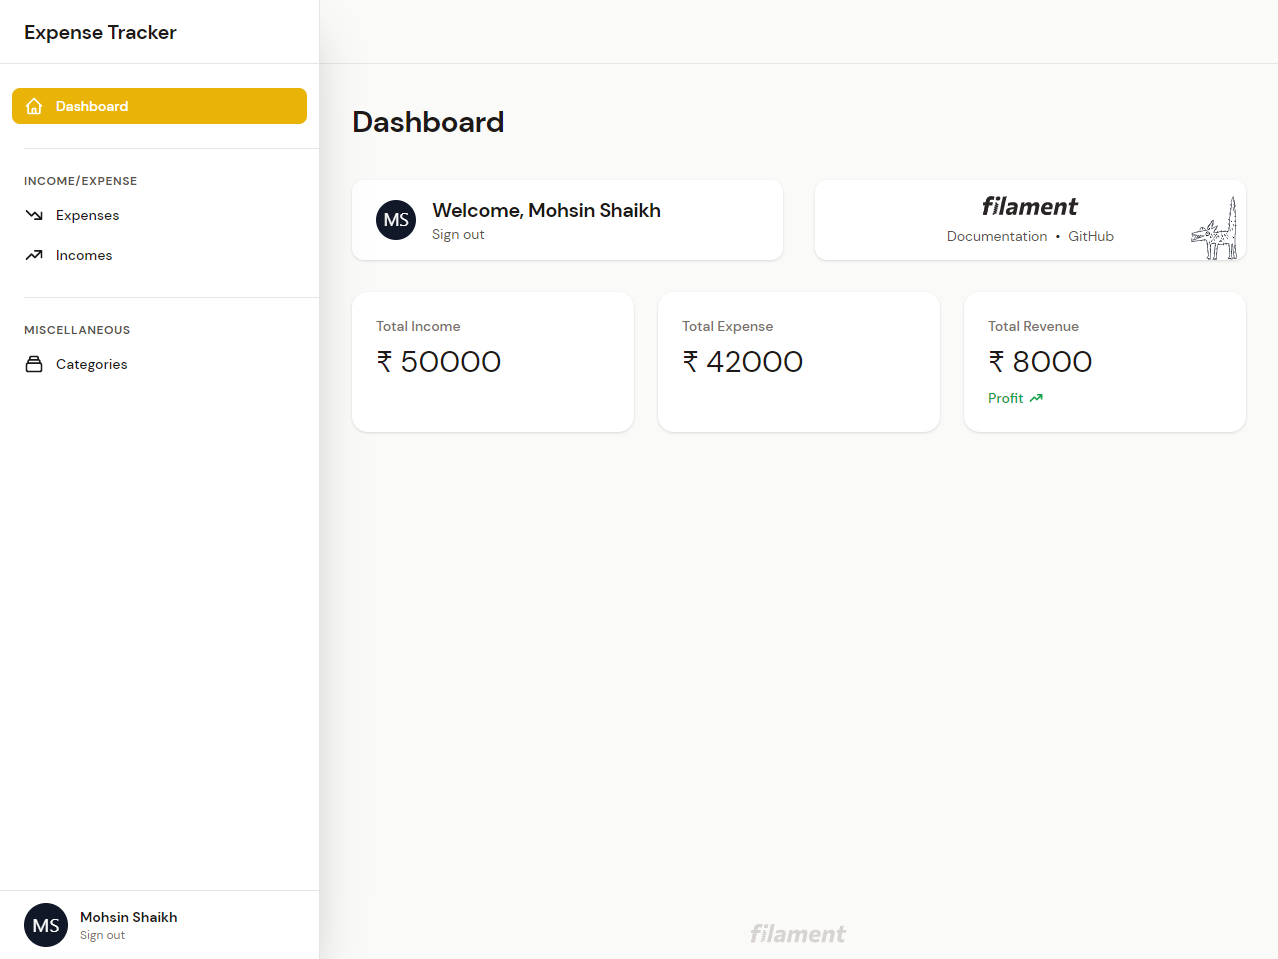
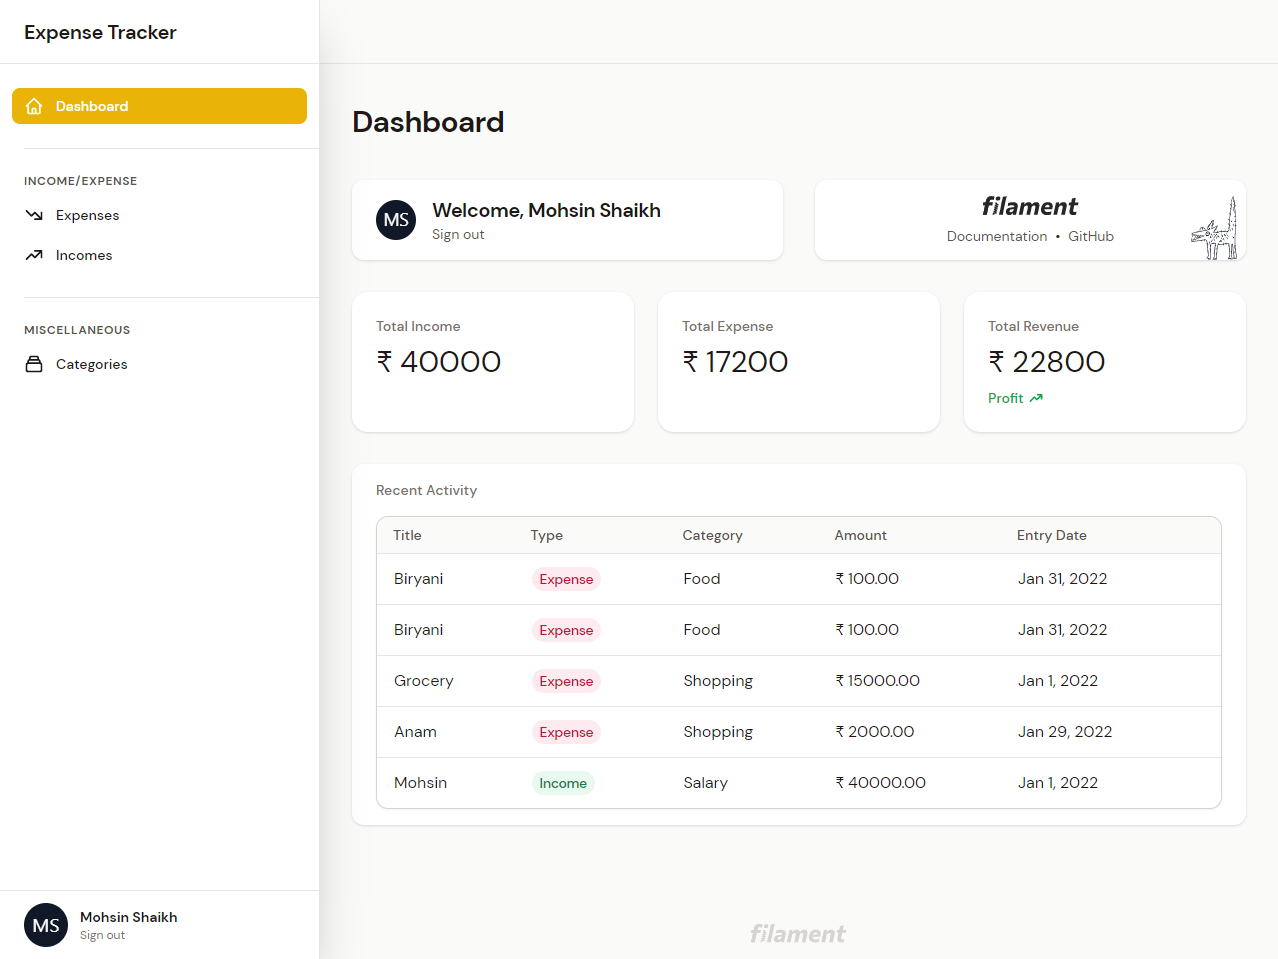
Recent Activity Widget added to dashboard

diff --git a/app/Filament/Widgets/RecentActivity.php b/app/Filament/Widgets/RecentActivity.php
@@ -1,0 +1,53 @@
+<?php
+
+namespace App\Filament\Widgets;
+
+use Filament\Tables;
+use Filament\Widgets\Widget;
+use Illuminate\Database\Eloquent\Builder;
+use App\Models\Activity;
+
+class RecentActivity extends Widget implements Tables\Contracts\HasTable
+{
+    use Tables\Concerns\InteractsWithTable;
+
+    protected static string $view = 'filament.widgets.recent-activity';
+
+    protected int | string | array $columnSpan = 'full';
+
+    protected function getTableQuery(): Builder
+    {
+        return Activity::latest()->take(10);
+    }
+
+    protected function getTableColumns(): array
+    {
+        return [
+            Tables\Columns\TextColumn::make('subject.title')
+                ->label('Title'),
+            Tables\Columns\BadgeColumn::make('subject_type')
+                ->enum([
+                    'expense' => 'Expense',
+                    'income' => 'Income',
+                ])
+                ->colors([
+                    'danger' => 'expense',
+                    'success' => 'income',
+                ])
+                ->label('Type'),
+            Tables\Columns\TextColumn::make('subject.category.name')
+                ->label('Category'),
+            Tables\Columns\TextColumn::make('subject.amount')
+                ->getStateUsing(fn ($record): string => '₹ ' . $record->subject->amount)
+                ->label('Amount'),
+            Tables\Columns\TextColumn::make('subject.entry_date')
+                ->label('Entry Date')
+                ->date(),
+        ];
+    }
+
+    protected function isTablePaginationEnabled(): bool
+    {
+        return false;
+    }
+}

diff --git a/app/Providers/AppServiceProvider.php b/app/Providers/AppServiceProvider.php
@@ -4,6 +4,7 @@ namespace App\Providers;
 
 use Filament\Facades\Filament;
 use Illuminate\Support\ServiceProvider;
+use Illuminate\Database\Eloquent\Relations\Relation;
 
 class AppServiceProvider extends ServiceProvider
 {
@@ -24,6 +25,11 @@ class AppServiceProvider extends ServiceProvider
      */
     public function boot()
     {
+        Relation::morphMap([
+            'income' => 'App\Models\Income',
+            'expense' => 'App\Models\Expense',
+        ]);
+
         Filament::registerNavigationGroups([
             'Income/Expense',
             'Miscellaneous',

diff --git a/resources/views/filament/widgets/recent-activity.blade.php b/resources/views/filament/widgets/recent-activity.blade.php
@@ -1,0 +1,8 @@
+<x-filament::widget>
+    <x-filament::card>
+        <div class="text-sm font-medium text-gray-500">
+            Recent Activity
+        </div>
+        {{ $this->table }}
+    </x-filament::card>
+</x-filament::widget>
